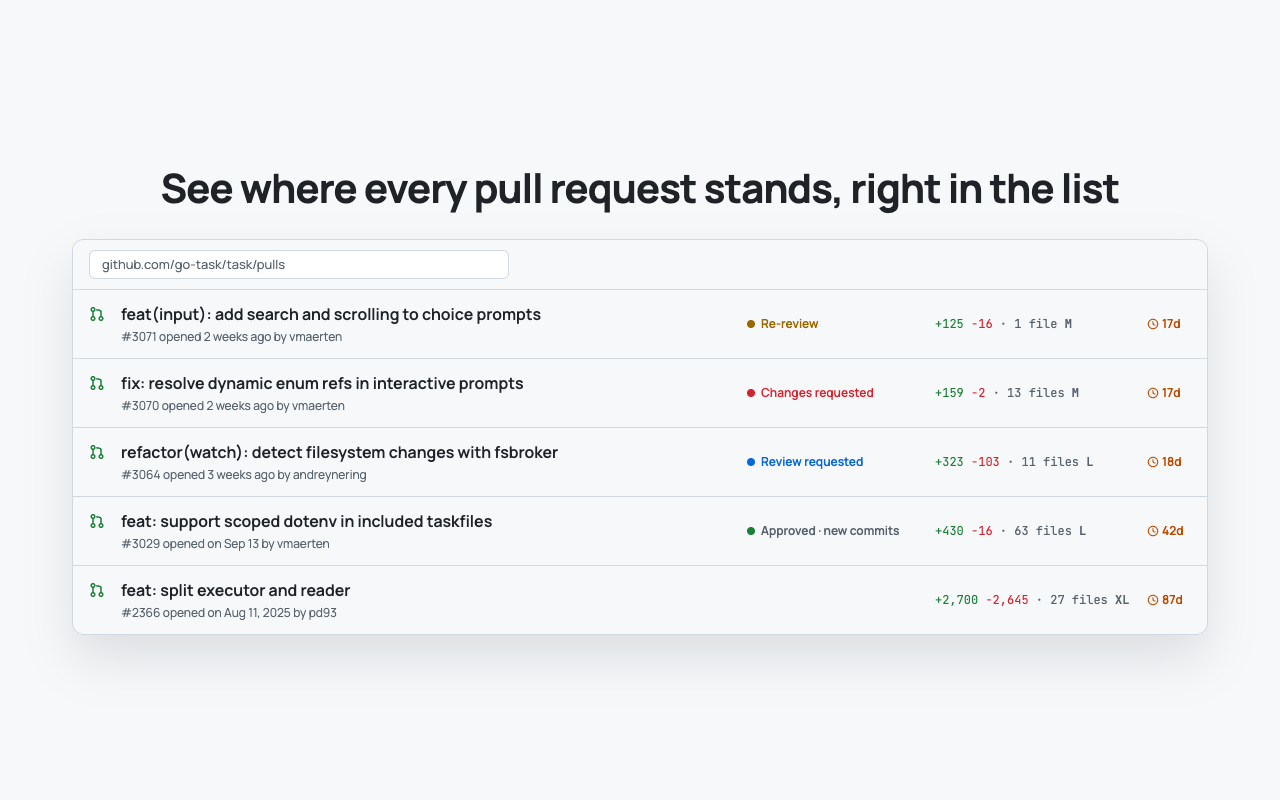
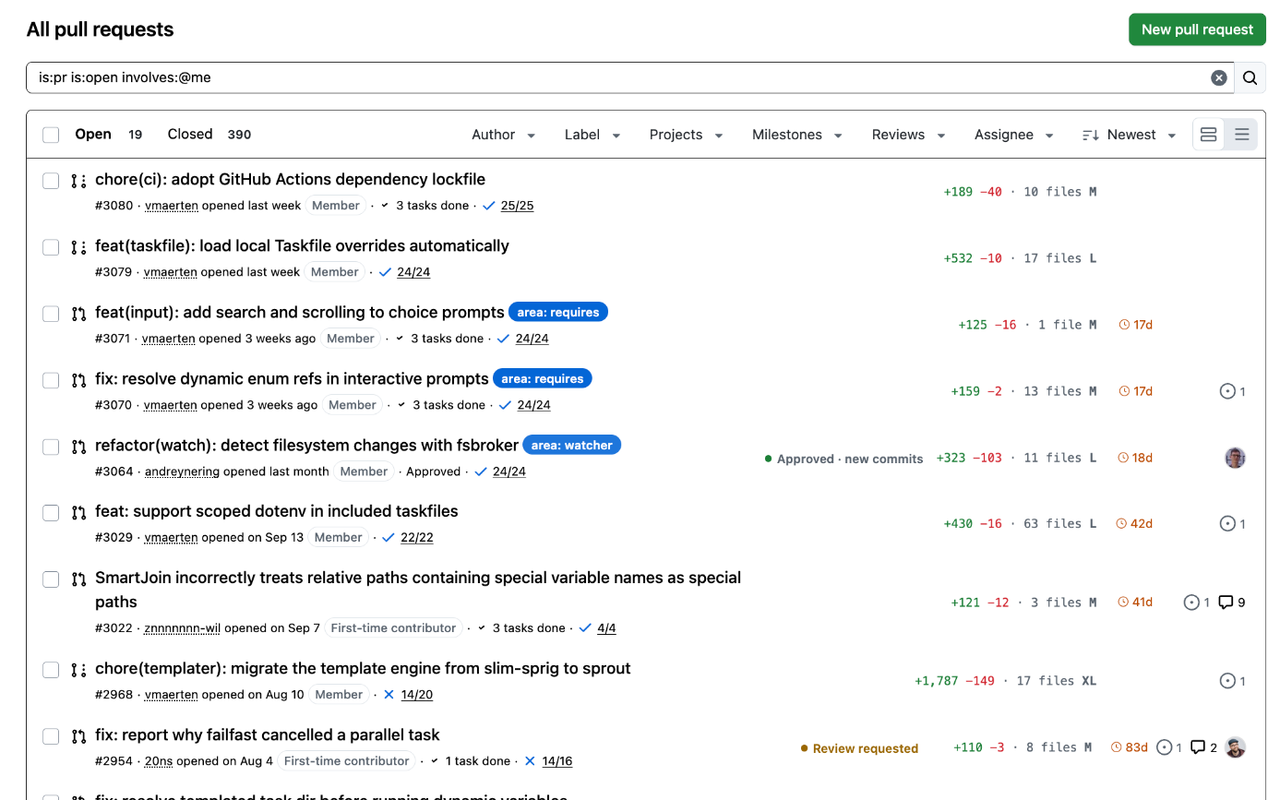
docs(store): replace the demo screenshots with real captures

diff --git a/docs/store/listing.md b/docs/store/listing.md
@@ -55,12 +55,12 @@ Source code and issues: https://github.com/vmaerten/polished-github
 
 **Assets.**
 
-| Asset              | Size               | Status                                                                                           |
-| ------------------ | ------------------ | ------------------------------------------------------------------------------------------------ |
-| Icon               | 128 × 128          | `source/icons/icon-128.png`                                                                      |
-| Screenshots        | 1280 × 800, 1 to 5 | `assets/1-pr-list.png` to `assets/5-options.png`: the website's demos, and the real options page |
-| Small promo tile   | 440 × 280          | `assets/promo-small-440x280.png`, from `assets/promo.html`                                       |
-| Marquee promo tile | 1400 × 560         | `assets/promo-marquee-1400x560.png`, optional                                                    |
+| Asset              | Size               | Status                                                                                      |
+| ------------------ | ------------------ | ------------------------------------------------------------------------------------------- |
+| Icon               | 128 × 128          | `source/icons/icon-128.png`                                                                 |
+| Screenshots        | 1280 × 800, 1 to 5 | `assets/1-pr-list.png` to `assets/5-options.png`, captured on github.com with the extension |
+| Small promo tile   | 440 × 280          | `assets/promo-small-440x280.png`, from `assets/promo.html`                                  |
+| Marquee promo tile | 1400 × 560         | `assets/promo-marquee-1400x560.png`, optional                                               |
 
 ## Firefox Add-ons (AMO)
 
